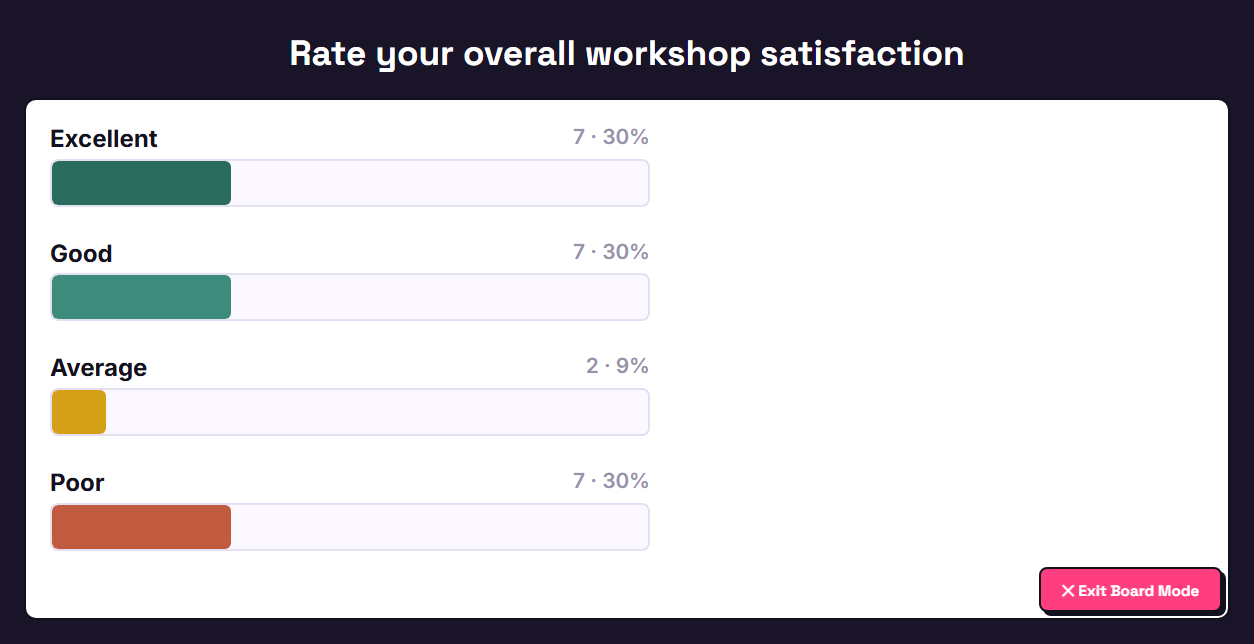
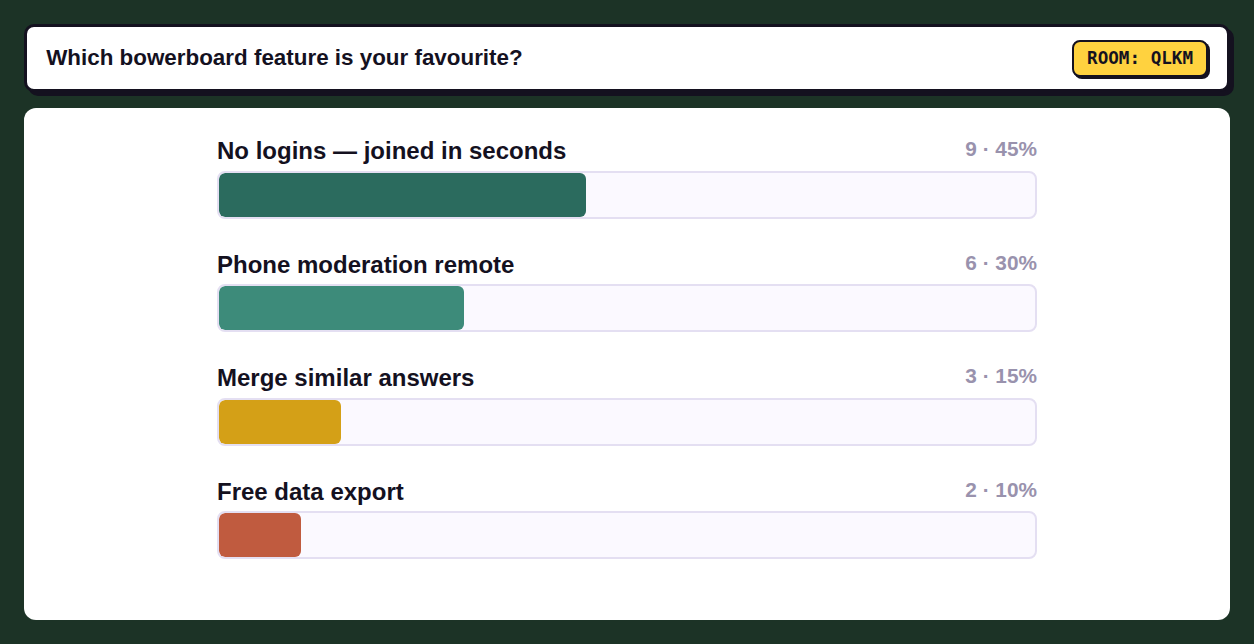
Redo front-page previews to sell USPs, drop old Blurt branding
quiz_preview.png still read "Which feature of Blurt do you like
most?" — the product's old name. Replaced the Quiz & Multiple Choice
card with a Ranking Task card (rounding the three previews out to
Sticky Notes / Poll / Ranking, matching the room types actually
being sold), and regenerated the poll and ranking screenshots as
real board renders using the app's own CSS so they match the
existing sticky note preview's style.

All three now feature the same core USPs (no logins, phone
moderation, merging similar answers, data export) rather than one
being a generic results screenshot, with UK spelling throughout.
Sticky Notes card title dropped "Corkboard" to match the room-type
name used elsewhere in the app.

diff --git a/index.html b/index.html
@@ -1948,17 +1948,17 @@ function renderLanding() {
     <!-- Product Preview Tiles (Below the fold) -->
     <div class="preview-tiles-row" style="display:flex; gap:1.8rem; width:100%; max-width:1100px; margin:4.5rem auto 2rem; padding:0 1.5rem; box-sizing:border-box; z-index:10; position:relative; justify-content:center; flex-wrap:wrap;">
       
-      <!-- Card 1: Sticky Notes Corkboard -->
+      <!-- Card 1: Sticky Notes -->
       <div class="preview-tile-card" style="flex:1; min-width:280px; max-width:340px; background:#fff; border:3.5px solid var(--ink); box-shadow:6px 6px 0 var(--shadow); border-radius:16px; overflow:hidden; display:flex; flex-direction:column; color:var(--ink); text-align:left;">
         <div style="background:#F1EDFA; border-bottom:3.5px solid var(--ink); padding:0.65rem 0.95rem; font-family:'Outfit', sans-serif; font-size:0.9rem; font-weight:900; display:flex; align-items:center; gap:8px;">
           <span style="width:10px; height:10px; border-radius:50%; background:#FF5F56; border:1.5px solid var(--ink); display:inline-block;"></span>
-          Sticky Notes Corkboard
+          Sticky Notes
         </div>
         <div style="background:#DCC3AD; min-height:220px; position:relative; overflow:hidden; box-sizing:border-box;">
           <img src="sticky_preview.png" style="width:100%; height:220px; object-fit:cover; display:block;" alt="Sticky Notes Corkboard Preview" />
         </div>
       </div>
-      
+
       <!-- Card 2: Live Poll Results -->
       <div class="preview-tile-card" style="flex:1; min-width:280px; max-width:340px; background:#fff; border:3.5px solid var(--ink); box-shadow:6px 6px 0 var(--shadow); border-radius:16px; overflow:hidden; display:flex; flex-direction:column; color:var(--ink); text-align:left;">
         <div style="background:#F1EDFA; border-bottom:3.5px solid var(--ink); padding:0.65rem 0.95rem; font-family:'Outfit', sans-serif; font-size:0.9rem; font-weight:900; display:flex; align-items:center; gap:8px;">
@@ -1969,18 +1969,18 @@ function renderLanding() {
           <img src="poll_preview.png" style="width:100%; height:220px; object-fit:cover; display:block;" alt="Live Poll Results Preview" />
         </div>
       </div>
-      
-      <!-- Card 3: Multiple Choice Quiz -->
+
+      <!-- Card 3: Ranking Task -->
       <div class="preview-tile-card" style="flex:1; min-width:280px; max-width:340px; background:#fff; border:3.5px solid var(--ink); box-shadow:6px 6px 0 var(--shadow); border-radius:16px; overflow:hidden; display:flex; flex-direction:column; color:var(--ink); text-align:left;">
         <div style="background:#F1EDFA; border-bottom:3.5px solid var(--ink); padding:0.65rem 0.95rem; font-family:'Outfit', sans-serif; font-size:0.9rem; font-weight:900; display:flex; align-items:center; gap:8px;">
           <span style="width:10px; height:10px; border-radius:50%; background:#27C93F; border:1.5px solid var(--ink); display:inline-block;"></span>
-          Quiz & Multiple Choice
+          Ranking Task
         </div>
         <div style="background:var(--stage); min-height:220px; position:relative; overflow:hidden; box-sizing:border-box;">
-          <img src="quiz_preview.png" style="width:100%; height:220px; object-fit:cover; display:block;" alt="Quiz Leaderboard Preview" />
+          <img src="ranking_preview.png" style="width:100%; height:220px; object-fit:cover; display:block;" alt="Ranking Task Preview" />
         </div>
       </div>
-      
+
     </div>
 
     <!-- Footer Section -->